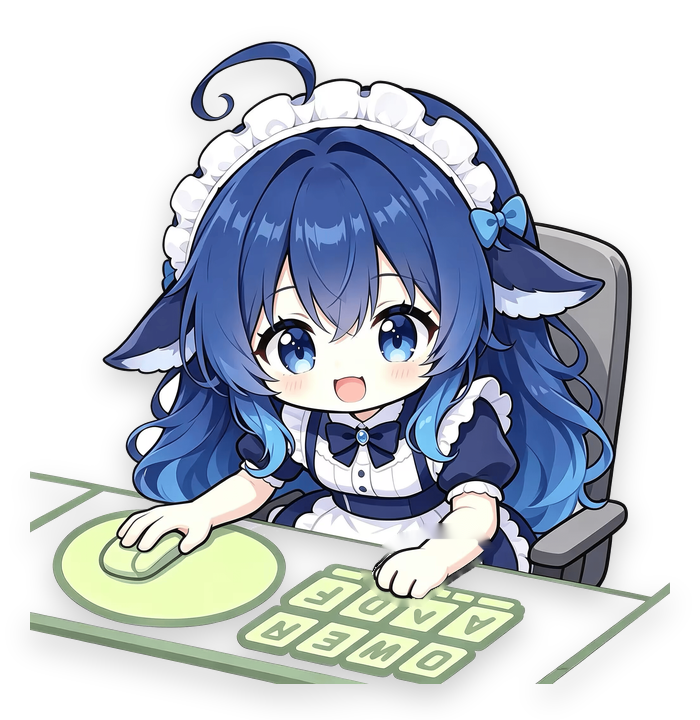
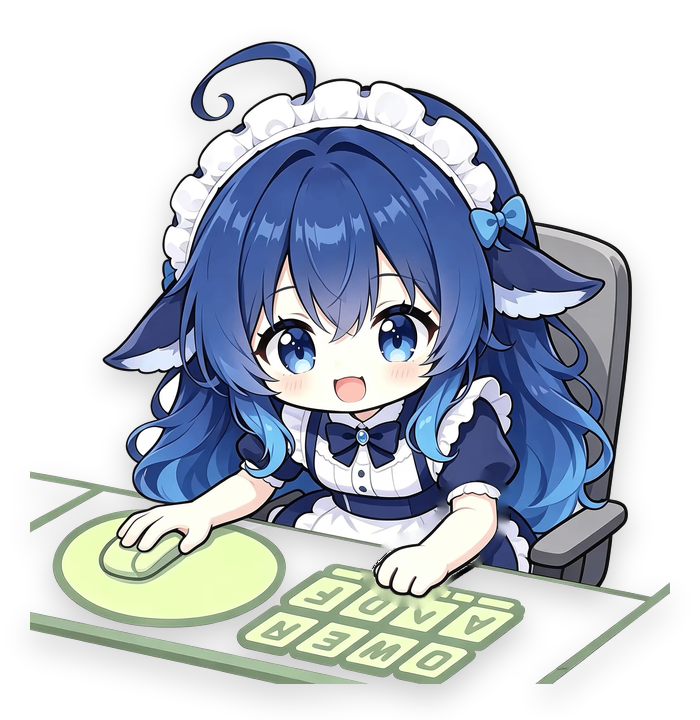
收小手臂动作幅度，保持小臂与大臂连接
缩小键盘/鼠标动作位移，右臂改为整段小臂参与；降低接缝断开和底座露底。

Changed region(s): [[0.51, 0.6417, 0.75, 0.8556]]

diff --git a/tools/build_assets.py b/tools/build_assets.py
@@ -35,11 +35,13 @@ SOURCE_FILE = DESIGN / "feiyu.png"
 # Hand masks are seeded on the actual pale paws (not the warm skin threshold,
 # which finds only the forearms in this illustration).
 HAND_RIGHT_KEY = {
-    "box": (300, 470, 470, 600),
-    "fg": [(355, 535), (380, 540), (400, 535), (415, 520), (425, 505)],
+    "box": (290, 420, 475, 600),
+    "fg": [(355, 535), (380, 540), (400, 535), (415, 520),
+           (425, 505), (438, 480), (446, 465), (450, 452)],
     "bg": [(310, 585), (330, 585), (350, 590), (455, 585),
-           (450, 555), (465, 530), (310, 490), (455, 500), (325, 555)],
-    "min_y": 500,
+           (465, 555), (465, 430), (300, 445), (300, 500),
+           (325, 555)],
+    "min_y": 435,
 }
 HAND_LEFT_MOUSE = {
     "box": (60, 430, 235, 525),
@@ -360,12 +362,12 @@ def main() -> None:
     # The keyboard and mousepad stay byte-for-byte identical across these
     # frames; only the cut-out paw moves.
     build_hand_state("mouse", mouse_base, mouse_sticker, [
-        (0, 0), (24, -3), (45, 1), (55, 5),
-        (35, 0), (0, -4), (-36, 1), (-52, 5),
+        (0, 0), (8, -1), (15, 1), (20, 2),
+        (13, 0), (0, -1), (-13, 0), (-20, 2),
     ], shadow=False)
     build_hand_state("key", key_base, key_sticker, [
-        (0, 0), (-4, -16), (0, -38), (2, -62),
-        (0, -36), (-2, -12), (0, 4), (0, 0),
+        (0, 0), (-1, -6), (0, -13), (1, -20),
+        (0, -12), (-1, -5), (0, 1), (0, 0),
     ])
 
     counts = {name: len(params) for name, (_, params) in specs.items()}
